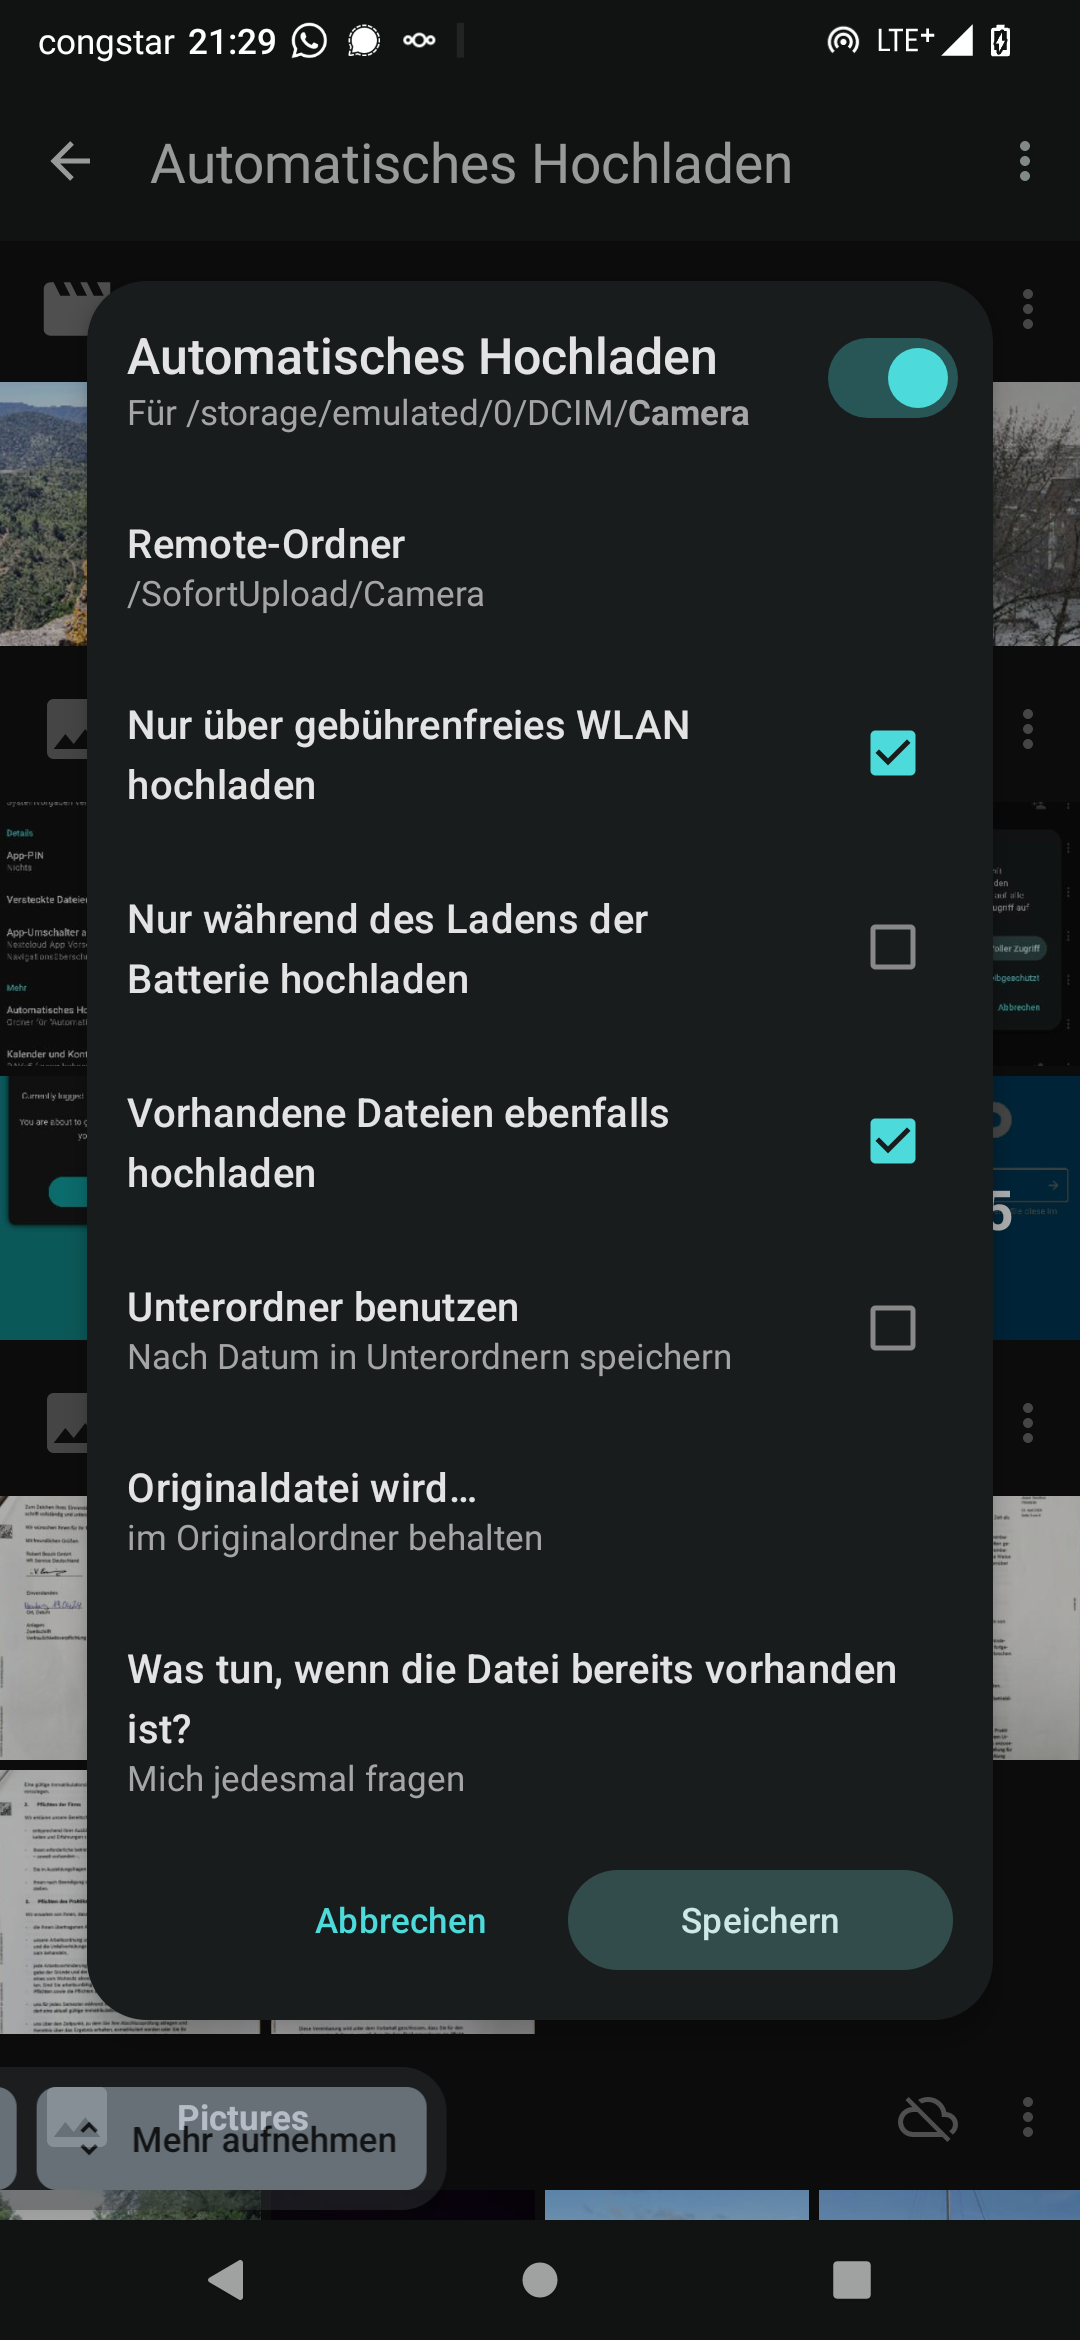
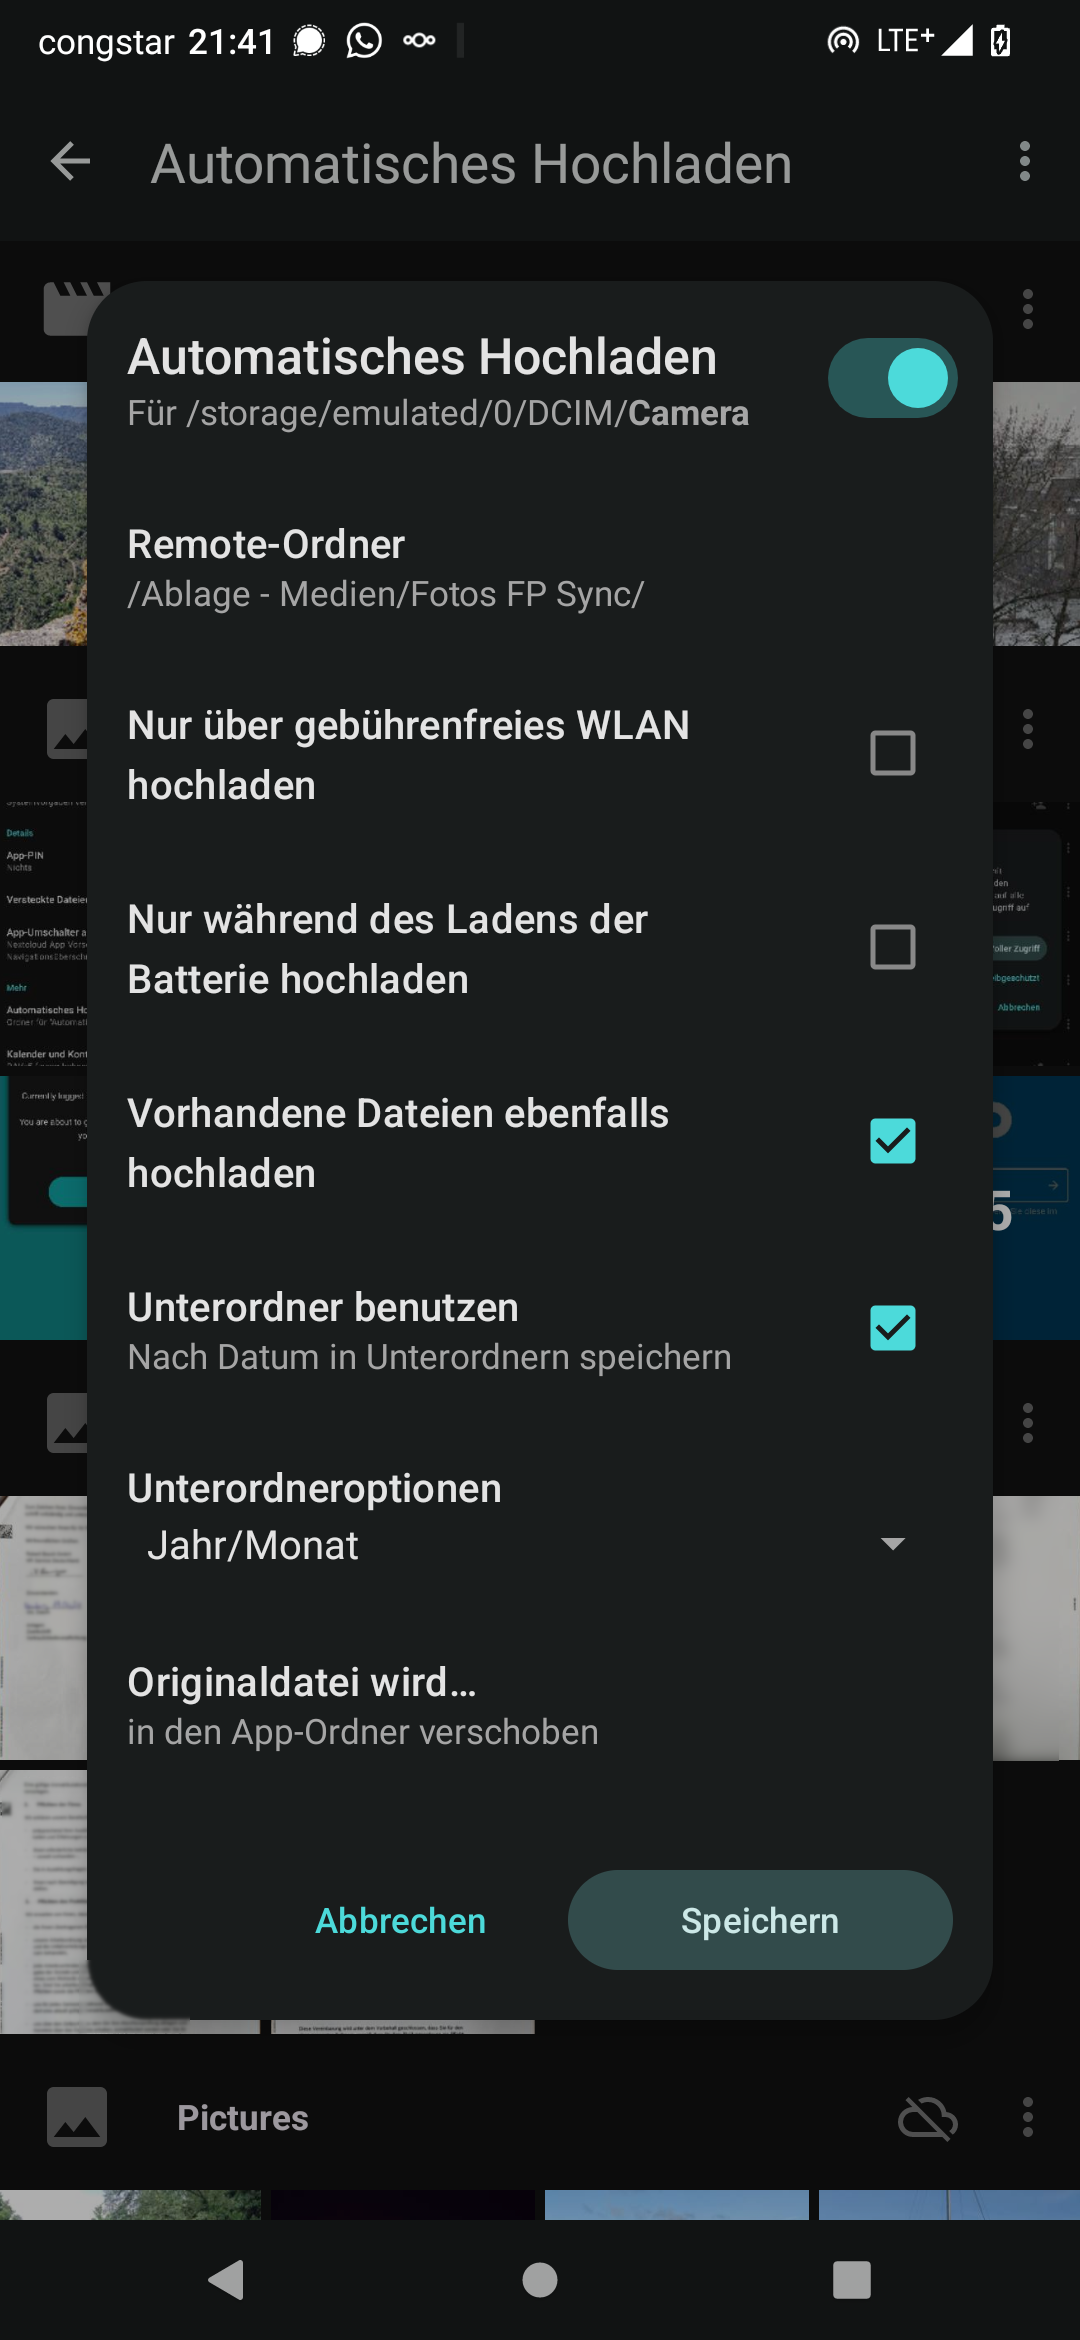
improved existing part of manuel and started adding calender and adress book integration

diff --git a/android/nextcloud-android.md b/android/nextcloud-android.md
@@ -1,164 +1,270 @@
-# Einbindung Nextclouddienste auf Android
+# Einbindung Nextclouddineste auf Android
 
-## Inhalt: 
+## Inhalt
 
-Diser Guide beschreibt wie sich die folgenden Dienste der Nextcloud unter Android nutzen lassen:
+Dieser Guide bechreibt, wie sich die folgenden Dienste der Nextcloud unter Android nutzen lassen:
 
-```
-1. Zugriff NC Dateien in der Nextcloud
-2. Einrichten des automatischen Fotouploads
-3. NC Kontakte mit dem Android syncronsieren
-4. NC Kalender mit Android syncronsieren
-```
+1. Zugriff auf Dateien
+2. Automatischer Fotoupload
+3. Kalender und Kontakte (Adressebücher)
+
+## 1. Zugriff auf Dateien: Installation und Einrichtung der Android Nextcloud App
+
+Einen Zugriff auf die Dateien (Files) aus der Nextcloud ermöglicht die Nextcloud App für Android.
+
+1. Herunterladen und Installieren:
+
+	Lade die Nextcloud App aus dem Google Playstore herunter und installiere sie, indem du auf den
+	*Installieren* Button tippst (Abb. 1.1 links): 
+
+	https://play.google.com/store/apps/details?id=com.nextcloud.client
+
+2. Serveradresse eingeben:
+
+	Öffne die App und tippe auf *Anmelden*. Um dich mit der Icatas Nextcloud zu verbinden gibt die
+	folgende Serveradresse ein (Abb. 1.1 mitte/rechts):
+
+	https://cloud.icatas.eu
+
+	Klicke auf den Pfeil am rechten Rand des Eingabefeldes um zum nächsten Schritt zu gelangen.
+
+	<br />
+	<center>
+	<img src="screenshots/nc_android_01.png" alt="" height="400">
+	<img src="screenshots/nc_android_02.png" alt="" height="400">
+	<img src="screenshots/nc_android_03.png" alt="" height="400">
+	<p>**Abbildung 1.1**</p>
+	</center>
+	<br />
+
+3. Anmelden:
+
+	Es erscheint eine Sicherheitswarnung. Hier auf *Anmelden* tippen (Abb. 1.2 links).
+
+	In der erscheinden Anmeldemaske müssen die persönlichen Anmeldedaten eingetragen werden, (Abb. 1.2
+	mitte), die auch für die Anmeldung im Browser benötigt werden. Bei unekanntem Nutzernamen
+	oder vergessenem Passwort kontaktiere einen Adminstrator.
+
+	<br />
+	<center>
+	<img src="screenshots/nc_android_04.png" alt="" height="400">
+	<img src="screenshots/nc_android_05.png" alt="" height="400">
+	<img src="screenshots/nc_android_06.png" alt="" height="400">
+	<p>**Abbildung 1.2**</p>
+	</center>
+	<br />
+
+	Bei erfolgreichem Log-In erscheit ein weiteres Fenster (Abb. 1.2 rechts). Tippe hier auf *Grand
+	Access* um der App auf deinem Android Gerät dauerhaften Zugriff auf deine Nextcloud Dateien zu geben.
+
+4. Öffnen der App
+
+	Bei erneutem Öffnen der App wird nun der Filebrowser mit deinen Daten aus der Nextcloud gezeigt.
+	Beachte, dass die Daten, sofern nicht schon anders eingestellt, virtuell vorhanden sind und erst
+	beim Öffnen heruntergeladen werden.
 
 
-## 1. Dateien: Installation und Einrichtung der Android Nextcloud Client App
+## 2. Automatischer Fotoupload: Mit Nextcloud App Bilder automatisch in Cloud sichern
 
-Zugriff auf die Dateien ("Files") aus der Nextcloud ist über die den Nextcloud Android Client möglich.
+Die Nextcloud Android App ermöglicht einen automatischen Upload von Fotos in einen Order in der Cloud.
+Die Installation und Einrichtung der App wird unter 1. beschrieben. Wenn die App auf deinem Gerät
+istalliert ist, gehe wie folgt vor:
+
+1. Öffne die Nextcloud Android App und tippe auf das Hamburger Menü am oberen Bildschirmrand (Abb.
+2.1 links).
+
+2. Tippe auf *Einstellungen* (ggf. nach oben wischen, Abb. 2.1 mitte).
+
+3. Tippe auf *Automatisches Hochladen*. Der Punkt ist unter der kleinen blauen Überschrift *Mehr* zu
+finden (Abb. 2.1 rechts). 
+
+	<br />
+	<center>
+	<img src="screenshots/nc_android_07.png" alt="" height="400">
+	<img src="screenshots/nc_android_09.png" alt="" height="400">
+	<img src="screenshots/nc_android_10.png" alt="" height="400">
+	<p>**Abbildung 2.1**</p>
+	</center>
+	<br />
+
+4. Hier kannst du nun den Ordner auswählen, der von deiner Kanera verwendet wird. In diesem Fall ist es
+der Ordner *Camera*, auf einem anderen Gerät kann dieser Ordner aber auch einen anderen Namen haben.
+Klicke zum Einrichten auf die drei Punkte (Abb. 2.2 links) und im aufploppenden Menü auf *Einrichten* 
+(Abb. 2.2 mitte).
 
 
-Voraussetzungen:
+	<br />
+	<center>
+	<img src="screenshots/nc_android_11.png" alt="Position Drei Punkte" height="400">
+	<img src="screenshots/nc_android_12.png" alt="Position 'Einrichten'" height="400">
+	<p>**Abbildung 2.2**</p>
+	</center>
+	<br/>
 
-	- Android Version ..
-	- Stabile Internet Verbindung (am besten WLAN)
+5. Im erscheinenden Pop-Up Fenster zunächst den Automatischen Upload durch tippen auf den Schalter
+oben rechts aktivieren (grau = Ausgeschaltet, blau = Eingeschaltet, vgl. Abb. 2.3)
 
-1. Installieren der Nextcloud Android App
 
- - Lade die Nextcloud App über den Google Playstore herunter und installiere sie
-indem du auf den Installieren Button klickst (Abb. 1.1 links)
+	<br />
+	<center>
+	<img src="screenshots/nc_android_13.png" alt="Menü 'Automatisch Hochladen'" height="400">
+	<img src="screenshots/nc_android_14.png" alt="Menü 'Automatisch Hochladen'" height="400">
+	<p>**Abbildung 2.3**</p>
+	</center>
+	<br/>
 
-		https://play.google.com/store/apps/details?id=com.nextcloud.client
+6. Nun können die weiteren Einstellungen getroffen werden. Hier eine Erklärungen:
 
-2. Anmelden
+	- *Remote-Ordner*: Hier kann der Ziel Ordner in der Cloud festgelegt werden (nicht der Ordner
+	auf deinem Gerät), in dem die Fotos gespeichert werden.
+	- *Unterordner benutzen*: Wenn du diesen Haken setzt, werden die Bilder im zuvor ausgewählten Ordner
+	in Unterordnern nach Jahren abgelegt. Wird der Haken gesetzt kann auch noch eine monatsweise
+	Speicherung ausgewählt werden.
 
- - Öffne die App und klicke auf "Anmelden". Es erscheint ein Eingabefeld. Gib hier
-die folgende Adresse ein um dich bei der Icatas Cloud anzumelden:
+7. Anschließend auf *Speichern* tippen um den Upload zu aktivieren. Ggf. erhälst du ein Pop-Up
+*Batterie-Optimierung*. Hier auf *Deaktivieren* klicken um die Funktion des Uploads zu gewährleisten.
+Dies nimmt die Nextcloud App und die mit dem Upload verbunden Hintergrundprozesse von den
+Maßnahmen der Batterie Optimierung aus.
+
+
+## 3. Kalender und Kontakte: Installieren und Einrichten des CalDAV / CardDAV Android Clients
+
+Die in der Nextcloud angelegten Kalender und Adressbücher lassen sich mit Hilfe des Protokolls
+*Cal-* bzw. *CardDAV* auch auf einem Android Gerät verwenden (lesend/schreibend). Dafür wird ein CalDAV Client
+benötigt.
+
+1. Installiere den Android CalDAV Client *DAVx⁵ - CalDAV CardDAV WebDAV* des Entwicklern bitfire web 
+	engineering herunter. Diese kann entweder 
+
+	- kostenpflichtig über den Google Play Store (Abb. 3.1 links)
+	- kostenfrei über den freien Android App Store F-Droid (Abb. 3.1 rechts)
 	
-	**https://cloud.icatas.eu**
-
- - Klicke auf den Pfeil am rechten Ende des Eingabefeldes um zum nächsten Schritt
- zu gelangen.
-			
-	<br />
-	<center>
-	<img src="screenshots/nc_android_01.png" alt="Nextcloud im PlayStore" height="400">
-	<img src="screenshots/nc_android_02.png" alt="Wilkommensseite der App" height="400">
-	<img src="screenshots/nc_android_03.png" alt="Eingabemaske Serveradresse" height="400">
-	<p> **Abbildung 1.1:** links: App im Google Playstore, mitte/rechts: Ersten Schritte nach erstem Öffnen der App.
-	</center>
-	<br />
-
-3. Es erscheint eine neue Seite. Hier auf "Anmelden" klicken (vgl. Abb. 1.2 links).
-
-4. In der erscheinenden Anmeldemaske musst du deine Anmeldedaten eingeben (Abb. 1.2, mitte), die
-du auch bei der Anmeldung über den Browser am Computer verwendest. Beachte, dass
-dein Benutzername hier i.d.R. keine E-Mail Adresse ist. Falls du deinen Nutzernamen
-und / oder dein Passwort vergessen hast melde dich  .....
+	heruntergeladen und installiert werden. Hier findest du eine Anleitung wie man F-Droid installiert.
 
 	<br />
 	<center>
-	<img src="screenshots/nc_android_04.png" alt="Sicherheitswarnung" height="400">
-	<img src="screenshots/nc_android_05.png" alt="Eingabemaske persönliche Anmeldedaten" height="400">
-	<img src="screenshots/nc_android_06.png" alt="Grand Access Button" height="400">
-	<p> **Abbildung 1.2:** links: Sicherheitswarnung nach Eingabe der Serveradresse, mitte: Eingabemaske
-		persönliche Anmeldedaten, rechts: Bestätigung des Zugriffs deines Gerätes auf deine Daten
+	<img src="screenshots/nc_android_15.png" alt="" height="400">
+	<img src="screenshots/nc_android_16.png" alt="" height="400">
+	<p>**Abbildung 3.1**</p>
 	</center>
 	<br />
 
-5. Bei erfolgreichem Log-In sollte ein weiteres Fenster erscheinen (Abb. 1.2 rechts). Klicke hier
-auf "Grand  Access" um deinem Android Client den dauerhaften Zugriff auf deine Daten
-zu gestatten.
+2. Nach dem ersten Öffnen der App erscheint ein grüner Bildschirm (Abb. 3.2 links). Tippe auf den 
+kleinen Pfeil unten rechts um mit der Einrichtung zu starten.
 
-6. Nach erfolgreicher Anmeldung erscheint ggf. ein Pop-Up, mit der Auswahlmöglichkeit der App entweder
-den "vollern Zugriff"  oder "Medien Schreibgeschützt" zu wählen.
-
-7. Beim Öffnen der App öffnet sich nun der Filebrowser und die Dateien aus deiner
-Nextcloudablage. 
-
-## 2. Automatischen Fotoupload einrichten
-
-Wenn du möchtest, dass deine Fotos, die du mit dem Smartphone machst, automatisch
-in der Nextcloud gespeichert werden, kannst du die Funktion "Automatisches Hochladen" der Nextcloud
-Client App verwenden. Dazu gehe wie foglt vor:
-
-1. Öffne den Nextcloud Client (die App) und tippe auf das Hamburger Menü am 
-oberen Bildschirmrand (vgl. Abb 2.1 links).
-
-2. Tippe auf "Einstellungen" (ggf. nach oben Wischen, vgl. Abb. 2.1, mitte)
+3. Wahle alle Berechtigungen aus, wenn du Kalender und Kontakte syncronisierne möchtest (vgl. Abb. 3.2
+mitte). Ggf. kann auch nur das Benötige ausgewählt werden. Tippe auf den Pfeil. Hier kann bei
+Bedarf auch die Syncronisierung der Aufgaben (Tasks) aktiviert werden. In diesem Fall beschränken
+wir uns auf Kalender und Adressbücher.
 
 	<br />
 	<center>
-	<img src="screenshots/nc_android_08.png" alt="Position Hamburg Menü" height="400">
-	<img src="screenshots/nc_android_09.png" alt="Position Button "Einstellungen"" height="400">
-	<img src="screenshots/nc_android_10.png" alt="Position Button 'Automatisches Hochladen'" height="400">
-	<p> **Abbildung 2.1:** links: Position Hamburg Menü, mitte: Die Einstellungen sind unten zu finden,
-		rechts: "Automatisches Hochladen" ist unter "Mehr" zu finden.
+	<img src="screenshots/nc_android_17.png" alt="" height="400">
+	<img src="screenshots/nc_android_18.png" alt="" height="400">
+	<img src="screenshots/nc_android_19.png" alt="" height="400">
+	<p>**Abbildung 3.2**</p>
 	</center>
 	<br />
 
-3. Tippe auf "Automatisches Hochladen. Der Punkt ist unter der kleinen blauen 
-Überschrift "Mehr" zu finden (Abb. 2.1, rechts)
+4. Auf der nächsten Seite erscheint ein Pop-Up *Soll die App immer im Hintergrund ausgeführt werden?*.
+Hier zwingend *Zulassen* auswählen (Abb. 3.3 links).
 
-4. Hier kannst du nun den Order auswählen, der von deiner Kamera verwendet wird.
-In diesem Fall ist es der Ordner "Camera" Klicke zum Einrichten auf die drei Punkte
-und im aufploppenden Menü auf "Einrichten".
+5. Auf der folgenden Seite *Regelmäßige Sync-Intervalle* auswählen (Abb. 3.3 mitte).
 
-5. Im erscheinenden Pop-Up Fenster zunächst den Automatischen Upload durch tippen
-auf den Schalter oben rechts.
+	<br />
+	<center>
+	<img src="screenshots/nc_android_20.png" alt="" height="400">
+	<img src="screenshots/nc_android_21.png" alt="" height="400">
+	<img src="screenshots/nc_android_22.png" alt="" height="400">
+	<p>**Abbildung 3.3**</p>
+	</center>
+	<br />
 
-6. Nun können die weiteren Einstellungen getroffen werden. 
+6. Falls du *DAVx⁵* kostenlos nutzt, z.B. über F-Droid, hast auf dieser Seite die Möglichkeit mit
+einer Spende zum weiteren Bestehen des Projektes beizutragen (Abb. 3.3 rechts). 
 
-	- "Remote-Order": Hier kann der Ziel Ordner in der Cloud festgelegt werden, in
-dem die Fotos gespeichert werden
-	- "Nur über gebührenfreies WLAN hochladen": Wenn der Haken gesetz ist, werden
-die Bilder nur bei einer Verbindung mit einem WLAN Netz hochgeladen. Wenn der Upload
-auch über Mobile Daten erfolgen soll, Haken nicht setzen
-	- "Nur während des Ladens der Batterie hochladen": selbsterklärend
-	- "Vorhandene Dateien ebenfalls hochladen" : Wenn du möchteset, dass auch
-alle Bilder hochgeladen werden, die du bereits gemacht hast, Haken setzen
-	- "Unterordner benutzen": Wenn du diesen Haken setzt, werden die Bilder
-entsprechend dem Aufnahmedatum in Order sortiert. Ist der Haken gesetzt, erscheint
-eine weitere Option, über die festgelegt werden kann, ob nur ein Ordner pro Jahr,
-oder weitere Unterordner für jeden Monat oder sogar jeden Tag angelegt werden sollen.
-	- "Originaldatei wird...": Wenn du möchtest, dass die Fotos nur als Sicherheitskopie
-in der Cloud abgelegt werden sollen, kannst du hier "im Orginalordner behalten..." auswählen.
-Alternativ kannst du "in den App-Ordner verschoben" auswählen. Dann liegen die Bilder
-statt im Kamera-Ordner nur noch in der Cloud, der entsprechende Order ist aber "heruntergeladen"
-und offline in deiner Galerie App verfügbar. Wählst du "gelöscht" aus, werden die Daten
-nur in die Cloud hochgeladen und sind nicht ohne weiteres Zutun offline verfügbar, sobald
-der Upload abgeschlossen ist.
-	- "Was tun, wenn die Datei bereits vorhanden ist?": kann auf standard gelassen werden...
+7. Nun öffnet sich der Hauptbildschirm der App. Tippe unten rechts auf *Konto anlegen* (Abb. 3.4 links).
 
-7. Anschließend auf "Speichern" tippen um den Upload zu aktivieren. Ggf. erhälst
-du ein Pop-Up "Batterie-Optimierung". Hier auf "Deaktivieren" klicken um die 
-Funtkion des Autouploads zu gewährleisten.
+8. Wähle unter *Nextcloud* aus und tippe auf *Fortfahren* (Abb. 3.4 mitte).
 
+	<br />
+	<center>
+	<img src="screenshots/nc_android_23.png" alt="" height="400">
+	<img src="screenshots/nc_android_24.png" alt="" height="400">
+	<img src="screenshots/nc_android_25.png" alt="" height="400">
+	<p>**Abbildung 3.4**</p>
+	</center>
+	<br />
 
+9. Es erscheint eine Eingabemaske für eine Serveradresse. Um sich bei der Icatas Nextcloud anzumelden
+tippe die folende Serveradresse ein:
 
+	https://cloud.icatas.eu
 
+	und tppe auf *Anmelden*.
 
+10. Es öffnet sich ein Browser-Fenster. Tippe hier auf Log-In (Abb. 3.5 links) und melde dich mit
+deinen persönlichen Log-In Daten an. Verwende die selben Daten wie zum Anmelden bei der Nextcloud im
+Browser. Gewähre anschließend deinem Android Gerät dauerhaften Zugriff auf dein Nextcloud Konto indem du
+auf den Buttom *Grand access* tippst (Abb. 3.5 mitte).
 
+	<br />
+	<center>
+	<img src="screenshots/nc_android_26.png" alt="" height="400">
+	<img src="screenshots/nc_android_27.png" alt="" height="400">
+	<img src="screenshots/nc_android_28.png" alt="" height="400">
+	<p>**Abbildung 3.5**</p>
+	</center>
+	<br />
 
+11. Wenn die Anmeldung erfolgreich war erscheint *Account connected*. Tippe nun auf as X oben links (
+Abb. 3.5 rechts) um zum Einrichtungsassistenten zurück zu gelangen.
 
+12. Gibt unter *Konto hinzufügen* eine E-Mail Adresse als Nutzernamen ein. Diese E-Mail Adresse mit nicht
+mit deiner Nextcloud verbunden sein. Statt einer E-Mail Adresse 
 
-
-
-
-
-
-
-
-
-
-
-
-
-
-
-
-
-
-
+	<br />
+	<center>
+	<img src="screenshots/nc_android_29.png" alt="" height="400">
+	<img src="screenshots/nc_android_30.png" alt="" height="400">
+	<img src="screenshots/nc_android_31.png" alt="" height="400">
+	<p>**Abbildung 3.5**</p>
+	</center>
+	<br />
 
 
-j
+
+
+
+
+
+
+
+
+
+
+
+
+
+
+
+
+
+
+
+
+
+
+
+
+
+
+
+
+
+
+
+
+
+
+
